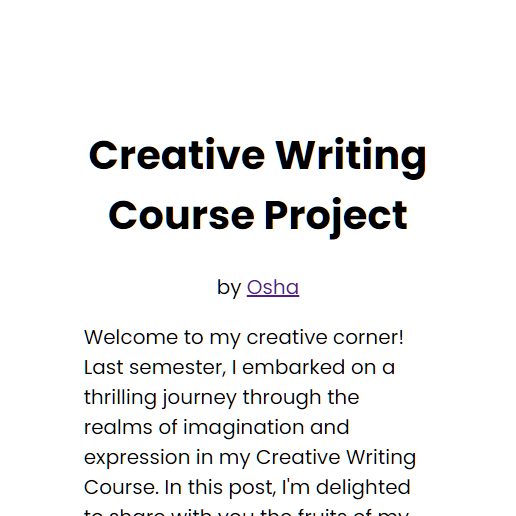
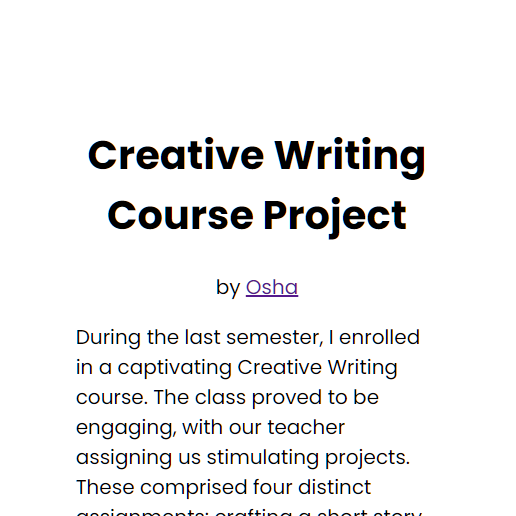
memet

diff --git a/docs/blog/index.html b/docs/blog/index.html
@@ -41,8 +41,8 @@
                 </div>
                 <div class="item-text">
                     <h2 class="item-title">Creative Writing Course Project</h2>
-                    <p>Welcome to my creative corner! Last semester, I embarked on a thrilling journey through the
-                        realms of...</p>
+                    <p>During the last semester, I enrolled in a captivating Creative Writing course. The class proved
+                        to be engaging, with our teacher...</p>
                     <p class="read-more"><a href="/blog/creative-writing-course/">Read more</a></p>
                 </div>
             </div>
